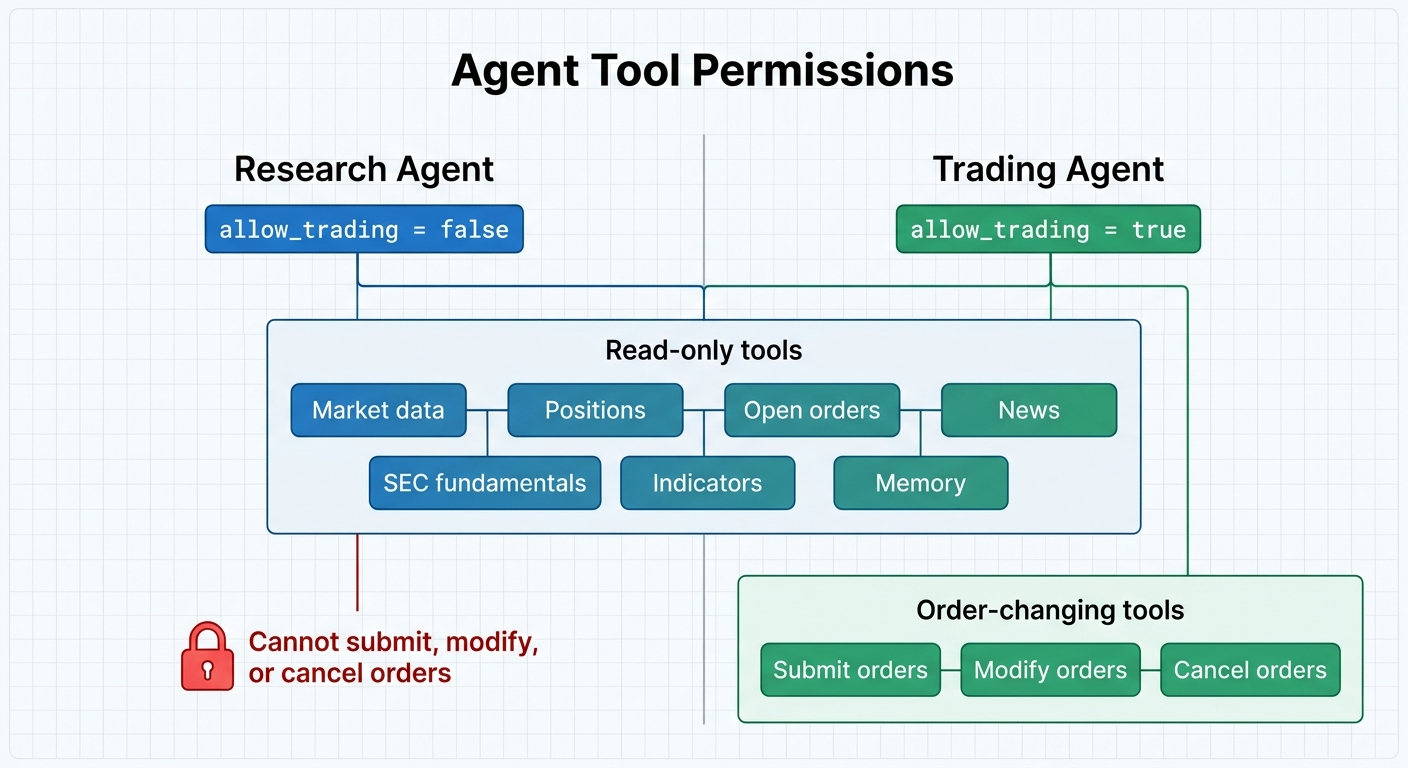
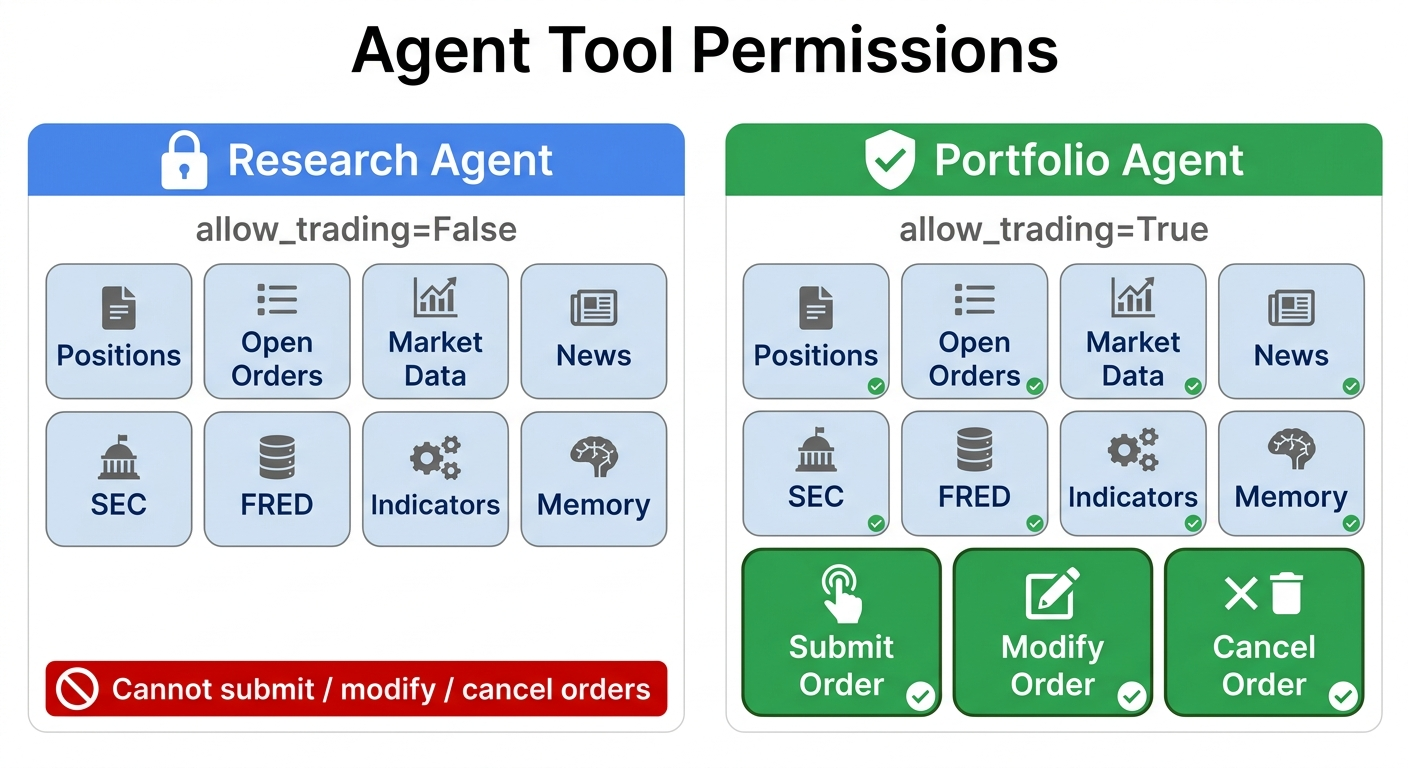
Refresh committee demo assets and benchmark setup

diff --git a/scripts/run_committee_backtest.py b/scripts/run_committee_backtest.py
@@ -53,6 +53,7 @@ def main() -> None:
     os.environ["LUMIBOT_CACHE_FOLDER"] = str(artifact_dir / "cache")
     os.environ["LUMIBOT_MEMORY_DIR"] = str(artifact_dir / "memory")
     os.environ["LUMIBOT_SEC_CACHE_DIR"] = str(artifact_dir / "sec")
+    os.environ["LUMIBOT_FRED_CACHE_DIR"] = str(artifact_dir / "fred")
 
     stats_file = artifact_dir / "stats.csv"
     trades_file = artifact_dir / "trades.csv"
@@ -62,19 +63,16 @@ def main() -> None:
     trading_fee = TradingFee(percent_fee=0.001)
     result, strategy = AIInvestmentCommitteeStrategy.run_backtest(
         datasource_class=YahooDataBacktesting,
-        backtesting_start=datetime(2023, 1, 3),
-        backtesting_end=datetime(2024, 1, 10),
+        backtesting_start=datetime(2026, 3, 29),
+        backtesting_end=datetime(2026, 4, 29),
         benchmark_asset=Asset("SPY", Asset.AssetType.STOCK),
         buy_trading_fees=[trading_fee],
         sell_trading_fees=[trading_fee],
         quote_asset=Asset("USD", Asset.AssetType.FOREX),
         budget=10000,
         parameters={
-            "universe": ["AAPL"],
             "max_position_pct": 0.20,
-            "max_new_positions_per_run": 1,
-            "committee_start_on_or_after": "2024-01-08",
-            "run_once": True,
+            "max_new_positions_per_run": 2,
             "enable_notifications": False,
         },
         stats_file=str(stats_file),

diff --git a/README.md b/README.md
@@ -6,7 +6,7 @@ Research, debate, backtest, explain, and execute real Lumibot strategies with a 
 
 This repository is a focused example built on top of [Lumibot](https://github.com/Lumiwealth/lumibot). It shows how to create an AI investment committee without LangGraph:
 
-1. Evidence researcher gathers market data, indicators, news, SEC fundamentals, and SEC filings.
+1. Evidence researcher gathers market data, indicators, news, SEC fundamentals, SEC filings, and FRED macro data.
 2. Bull researcher builds the strongest long-only case.
 3. Bear researcher attacks the trade and identifies risks.
 4. Portfolio manager checks risk limits and places Lumibot orders only when the evidence is good enough.
@@ -30,6 +30,7 @@ The research role is explicitly prompted to gather:
 - Recent Alpaca/Benzinga news when Alpaca credentials are configured.
 - SEC income statement, balance sheet, cash flow, and company facts.
 - SEC filing lists and targeted filing search.
+- FRED macro series such as rates, inflation, labor, growth, liquidity, and credit spreads.
 
 ![Evidence pack](assets/images/evidence_pack.png)
 
@@ -46,6 +47,10 @@ The bull and bear agents receive the same evidence pack and can call read-only t
 SEC fundamentals use public SEC EDGAR APIs directly, require no API key, and are cached locally. Backtests are gated by filed date or acceptance timestamp so the agent does not see future filings.
 
 ![SEC point-in-time cache](assets/images/sec_fundamentals_filings.png)
+
+## FRED Macro Data
+
+FRED macro tools are built into Lumibot agents. They work with curated public CSV series by default and use `FRED_API_KEY` for official FRED/ALFRED vintage observations when you need stricter point-in-time macro backtests.
 
 ## Memory And Notifications
 
@@ -73,6 +78,8 @@ python scripts/run_committee_backtest.py
 ```
 
 The script writes results under `artifacts/ai_committee_real_backtests/`.
+
+The default benchmark window is `2026-03-29` to `2026-04-29`, matching the BotSpot comparison runs used for Gemini, Claude, GPT, and Grok news-enabled strategies.
 
 For local Lumibot development, keep this repository next to `/Users/robertgrzesik/Development/lumibot` or install your Lumibot checkout:
 
@@ -103,7 +110,7 @@ Use a cheaper model for evidence gathering and a stronger model for adversarial 
 
 ## Safety
 
-Research, bull, and bear agents use `allow_trading=False`. They can inspect prices, indicators, SEC filings, news, positions, open orders, and memory, but they cannot submit, cancel, or modify orders. The portfolio manager is the only trading-enabled role.
+Research, bull, and bear agents use `allow_trading=False`. They can inspect prices, indicators, SEC filings, FRED macro data, news, positions, open orders, and memory, but they cannot submit, cancel, or modify orders. The portfolio manager is the only trading-enabled role.
 
 ![Tool permissions](assets/images/tool_permissions.png)
 
